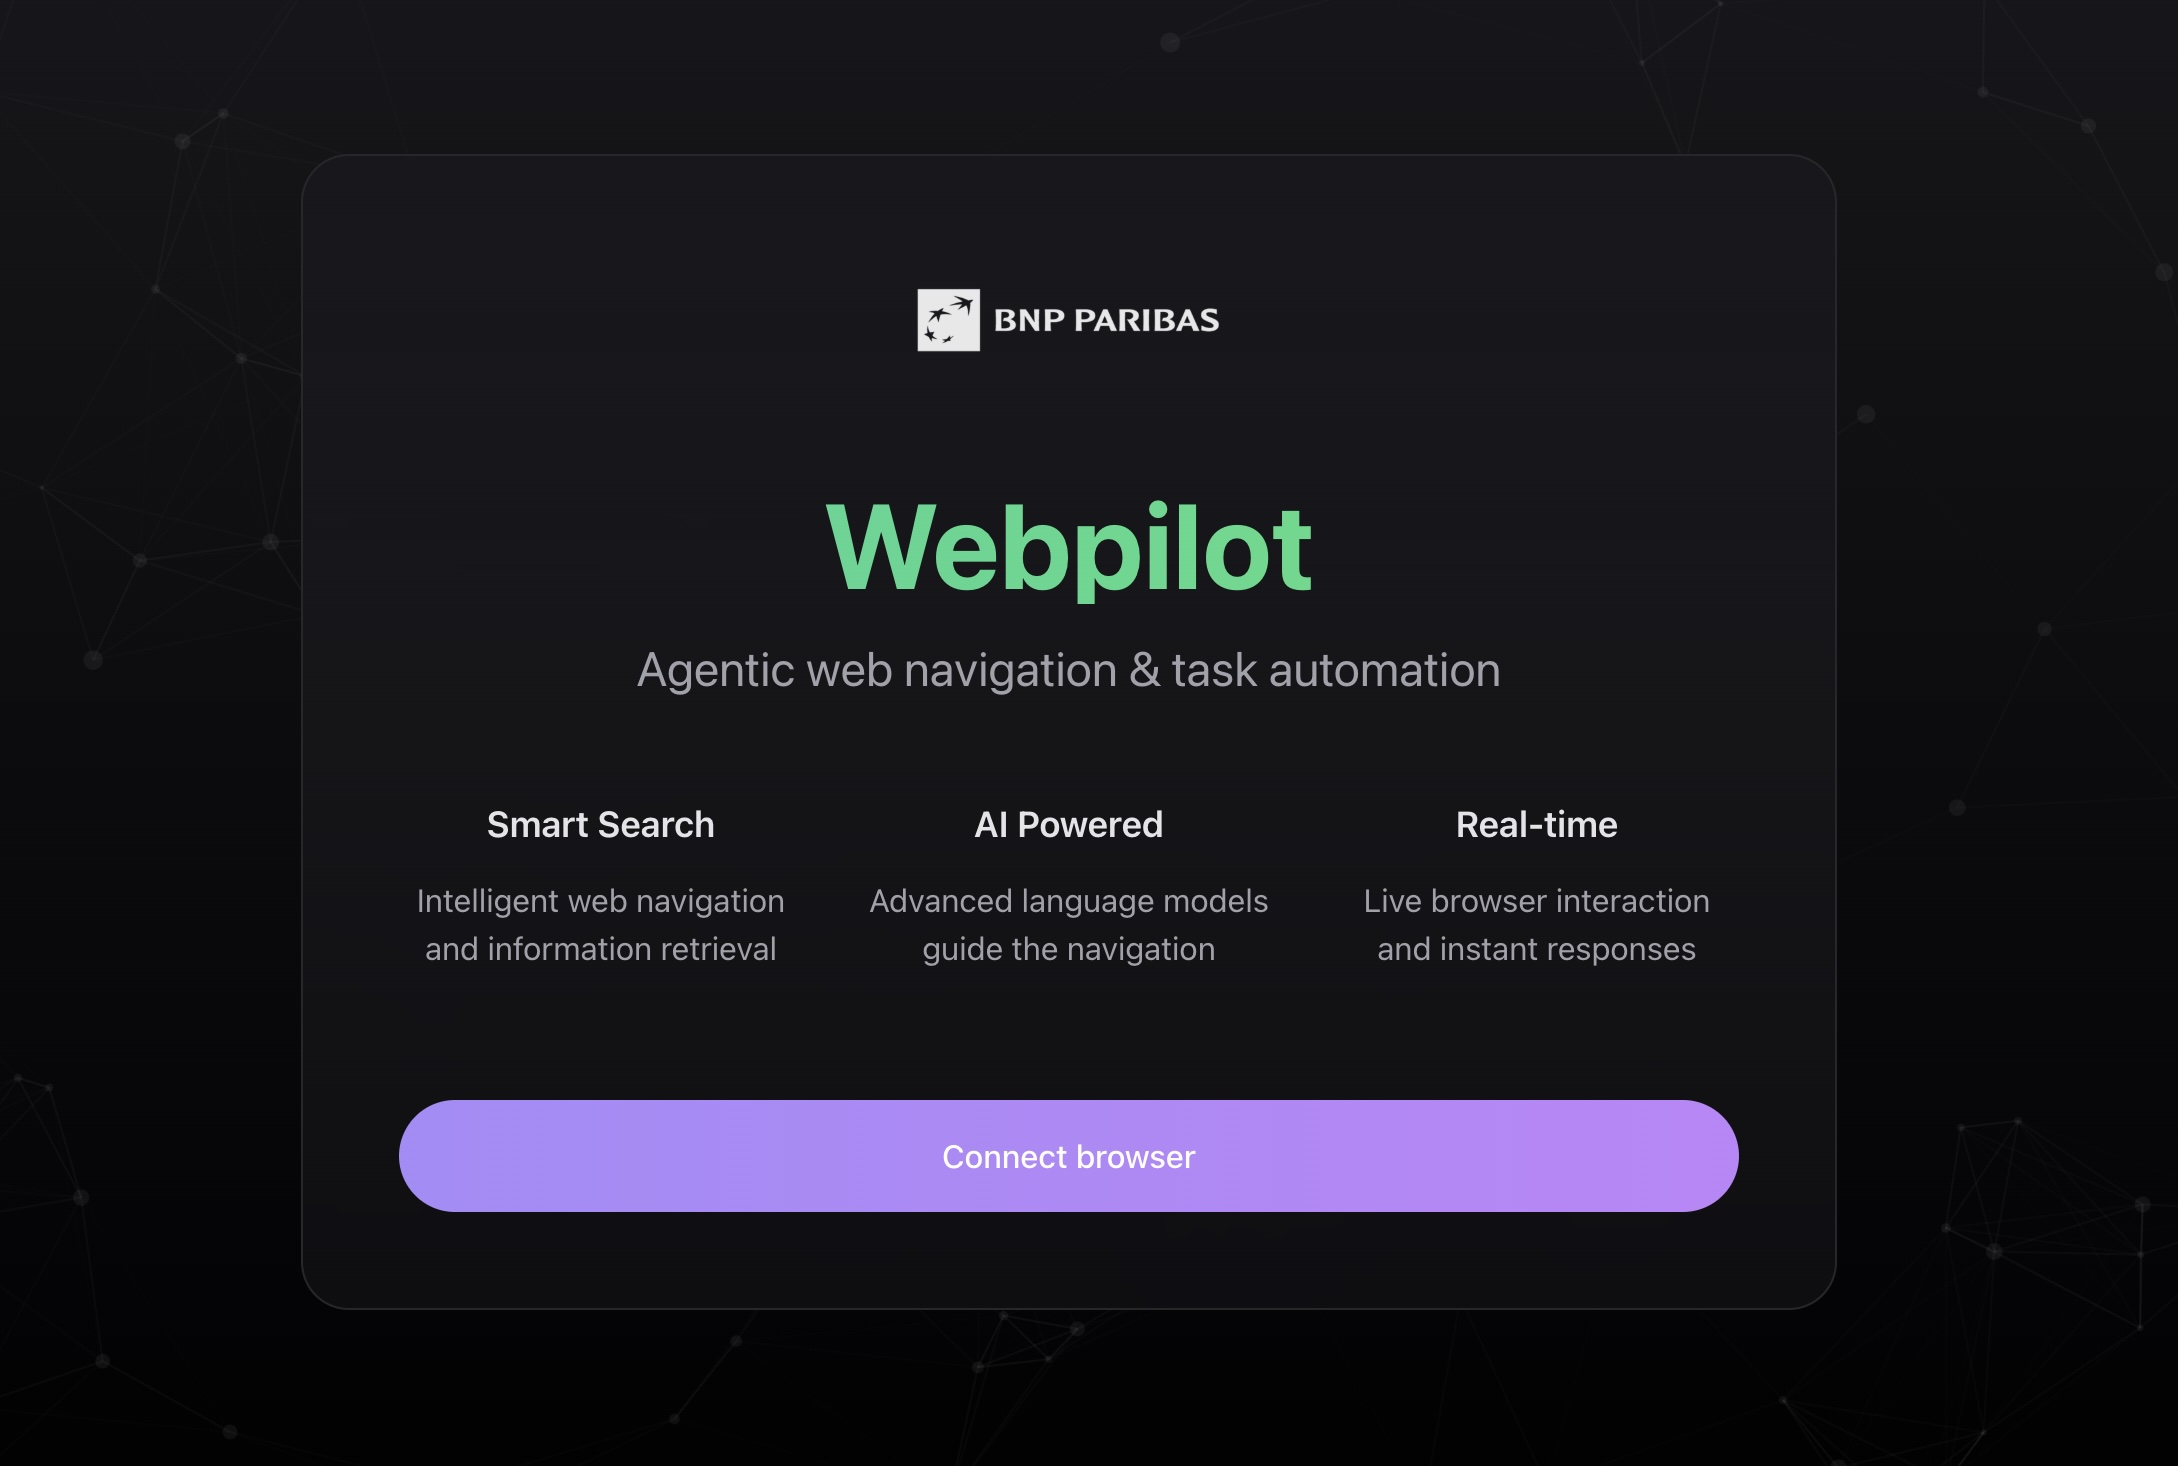
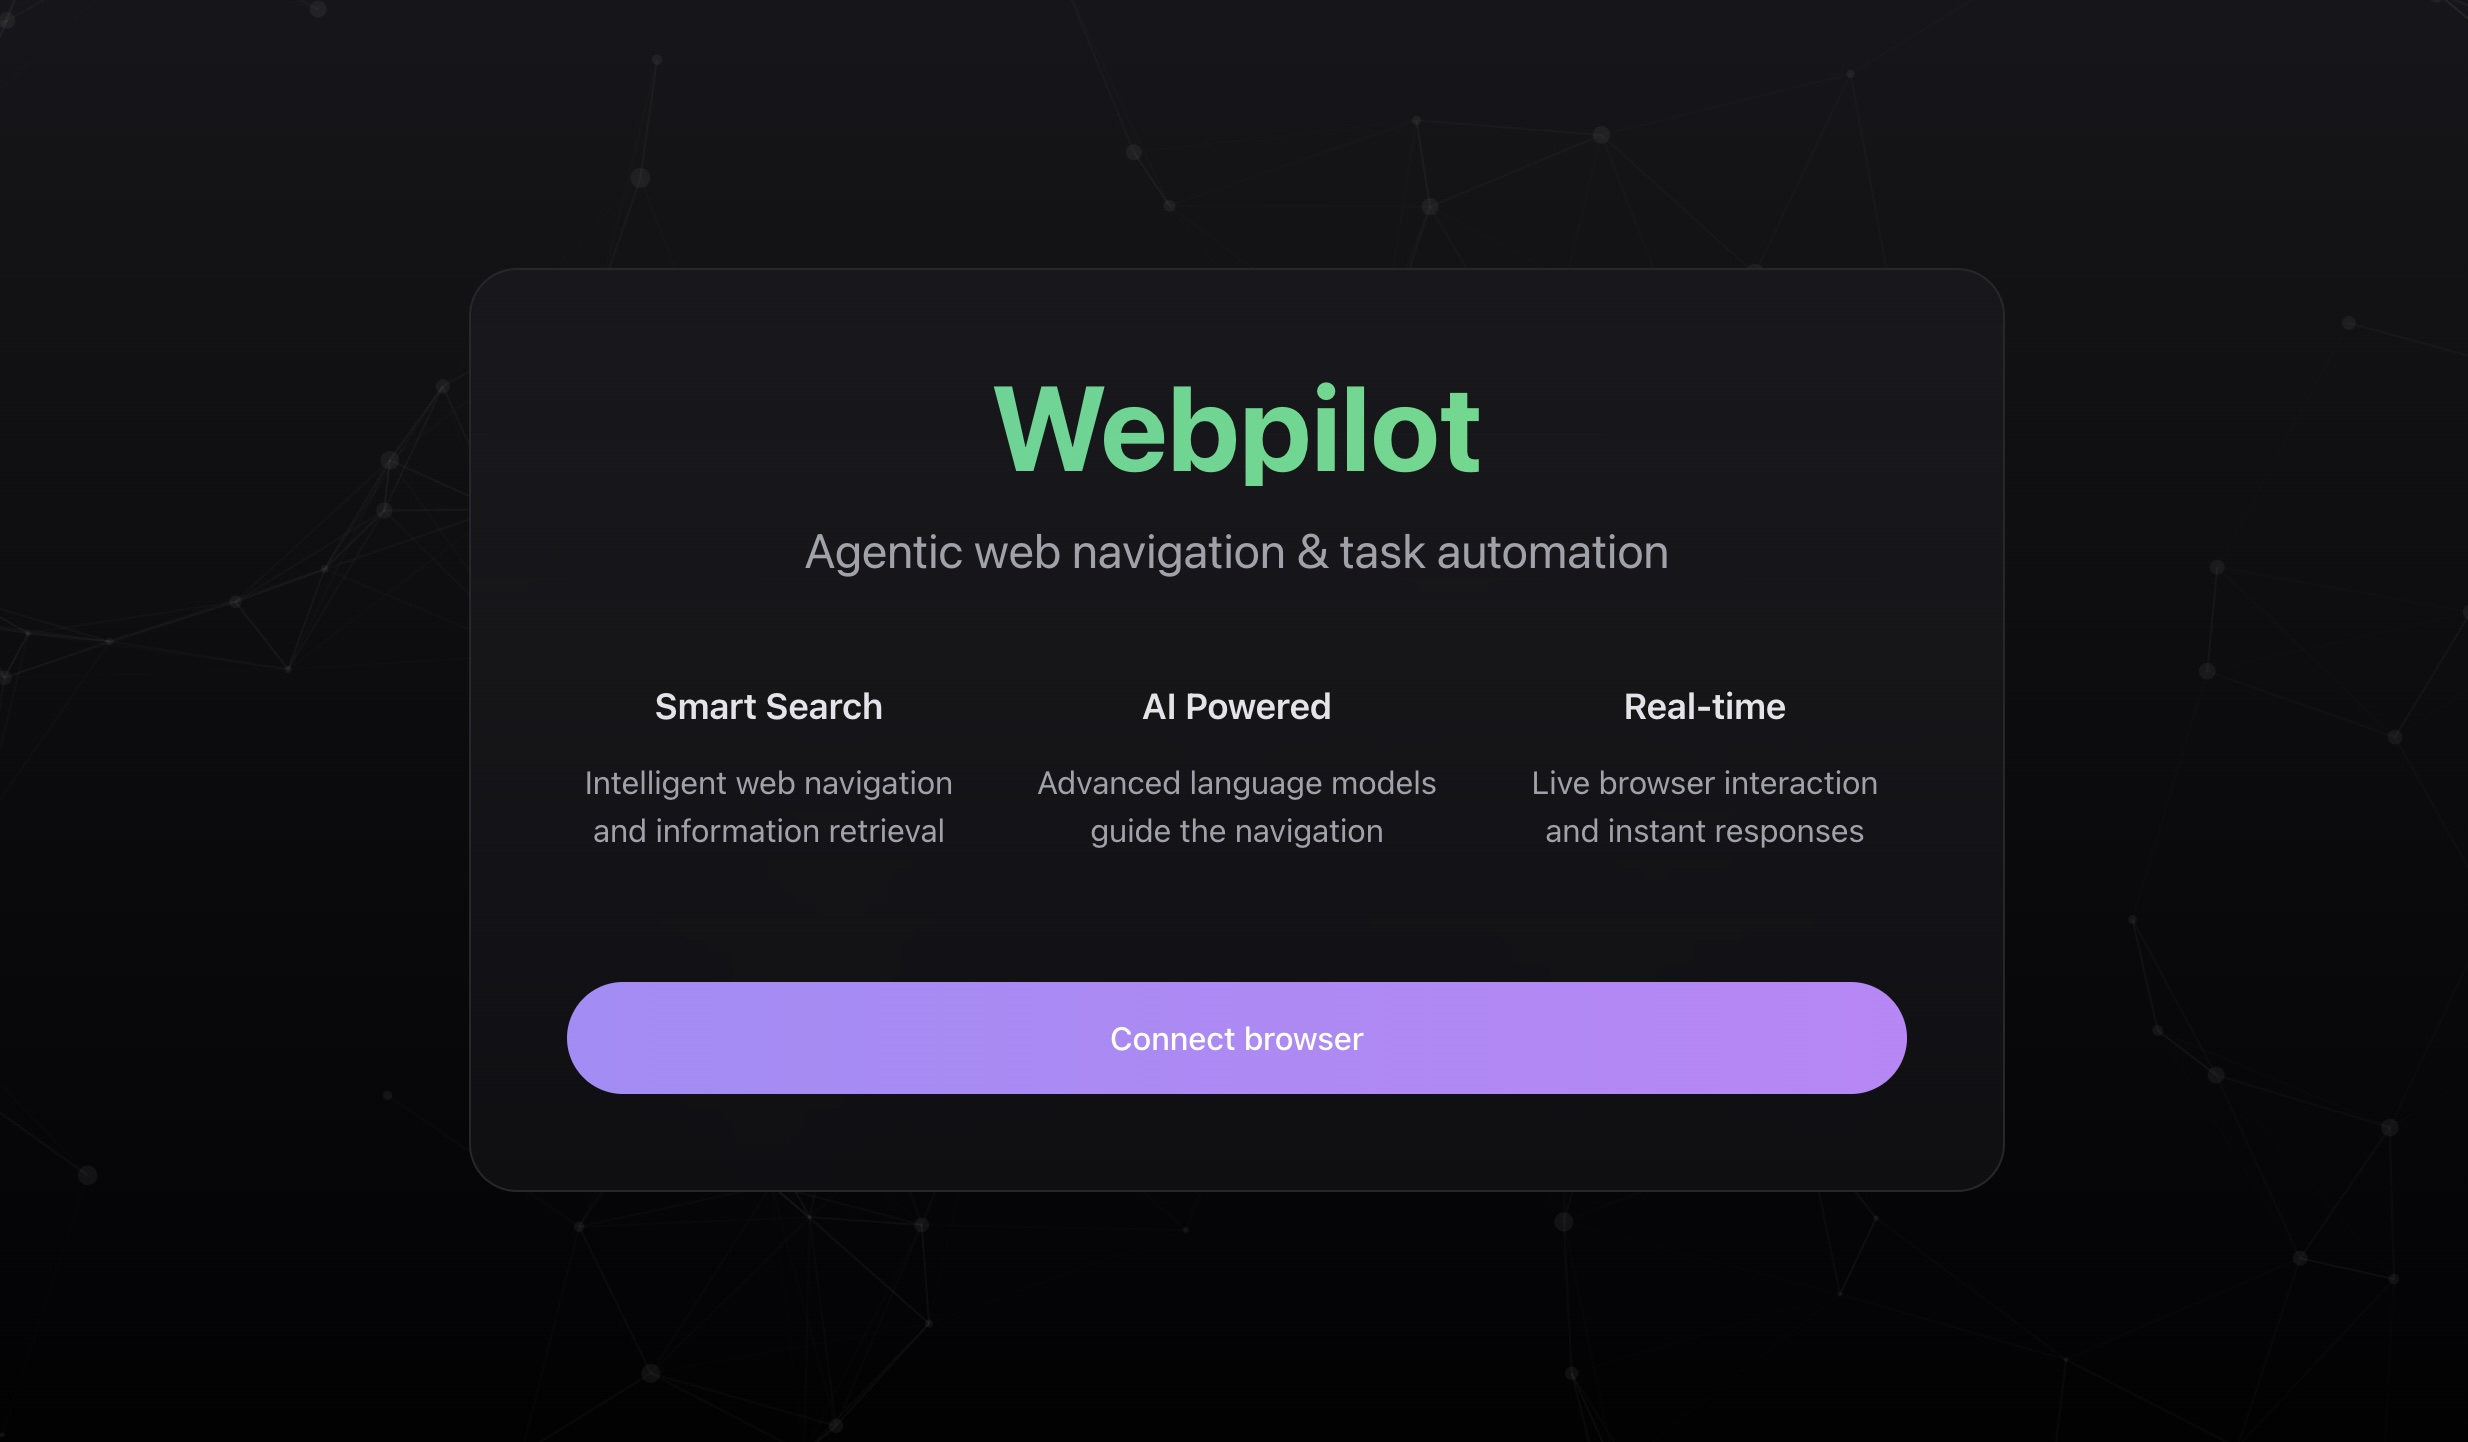
Initial commit

Changed region(s): [[0.1561, 0.5305, 0.8118, 0.8426], [0.3122, 0.1872, 0.6869, 0.4057], [0.2498, 0.4369, 0.7181, 0.4993]]

diff --git a/frontend/src/app/page.tsx b/frontend/src/app/page.tsx
@@ -49,18 +49,6 @@ export default function Home() {
         gradient="from-emerald-500/20 to-green-500/20"
       >
         <div className="space-y-12">
-          {/* Logo Section */}
-          <div className="flex justify-center">
-            <Image
-              src="/images/BANK-logo_white-1-1024x349.png"
-              alt="BNP Paribas"
-              width={200}
-              height={68}
-              className="opacity-90 hover:opacity-100 transition-opacity"
-              priority
-            />
-          </div>
-
           {/* Title Section */}
           <div className="space-y-4 text-center">
             <h1 className="text-5xl md:text-6xl font-bold bg-gradient-to-r from-emerald-400 to-green-400 text-transparent bg-clip-text">
